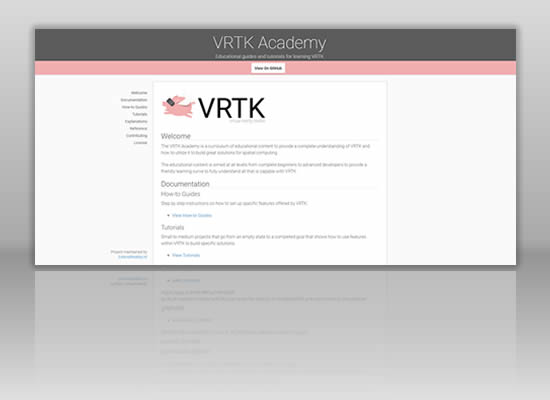
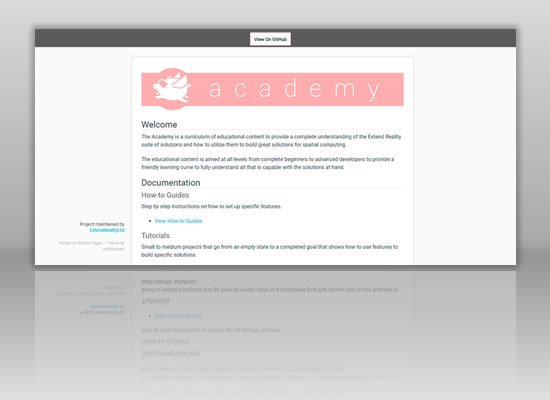
feat(index.html): add academy section and redbubble section
The academy link has now been added to the top bar and in the carousel,
as well as having a section in guidance as the academy now has useful
content on it.

The Blogger section has been removed and replaced with a RedBubble
section to promote the shop.

Changed region(s): [[0.0618, 0.06, 0.9582, 0.66], [0.1855, 0.75, 0.2164, 0.78]]

diff --git a/index.html b/index.html
@@ -35,7 +35,7 @@
           <ul class="nav navbar-nav">
             <li><a href="#about">about</a></li>
             <li><a href="#resources">resources</a></li>
-            <li><a target="_new" href="https://www.redbubble.com/people/vrtk/shop">swag</a></li>
+            <li><a target="_new" href="https://academy.vrtk.io">academy</a></li>
           </ul>
         </div>
       </div>
@@ -68,7 +68,7 @@
           <img class="second-slide" src="images/creators.jpg" alt="children being creative">
           <div class="carousel-caption">
             <h1>no more <em>what if</em></h1>
-            <a class="btn btn-primary" href="tilia.html" role="button" title="Start with the Tilia Packages">explore tilia</a>
+            <a class="btn btn-primary" href="https://academy.vrtk.io" role="button" title="Get help and guidance on using VRTK">start learning</a>
           </div>
         </div>
         <div class="item">
@@ -149,6 +149,16 @@
           <p>If you want to learn how to use VRTK or require some help then check out the below resources.</p>
 
           <div class="resources-list">
+            <div class="resource row">
+              <div class="col-sm-4 resource-cell">
+                <img src="images/resource-academy.jpg" class="img-responsive" alt="Academy Logo">
+              </div>
+              <div class="content col-sm-8 resource-cell">
+                <h4>Academy</h4>
+                <p>Full of tutorials, written documentation and lower level developer API documentation. The VRTK Academy is a great place to get started to learn about what VRTK can offer when building great VR content.</p>
+                <a class="btn btn-primary" href="https://academy.vrtk.io" target="_new" role="button">visit academy</a>
+              </div>
+            </div>
             <div class="resource row right-align resource-alt">
               <div class="content col-sm-8 resource-cell">
                 <h4>YouTube</h4>
@@ -191,12 +201,12 @@
             </div>
             <div class="resource row">
               <div class="col-sm-4 resource-cell">
-                <img src="images/resource-blogger.jpg" class="img-responsive" alt="Blogger Logo">
+                <img src="images/resource-redbubble.jpg" class="img-responsive" alt="RedBubble Logo">
               </div>
               <div class="content col-sm-8 resource-cell">
-                <h4>Blogger</h4>
-                <p>Straight from the minds of the VRTK team. Regular blog posts with news, ideas, quick helpful hints and tips or just general ramblings. There may be something a bit too obscure for the general help guides living inside here.</p>
-                <a class="btn btn-primary" href="http://blog.vrtk.io" target="_new" role="button">visit blogger</a>
+                <h4>RedBubble</h4>
+                <p>Impress your friends, peers and superiors by rocking some official VRTK swag when you're in a super coprorate setting building sweet VR! Check out our RedBubble shop with a bunch of different products containing the VRTK logos from stickers and mugs to hoodies and pillows!</p>
+                <a class="btn btn-primary" href="https://www.redbubble.com/people/vrtk/shop" target="_new" role="button">visit redbubble</a>
               </div>
             </div>
           </div>
